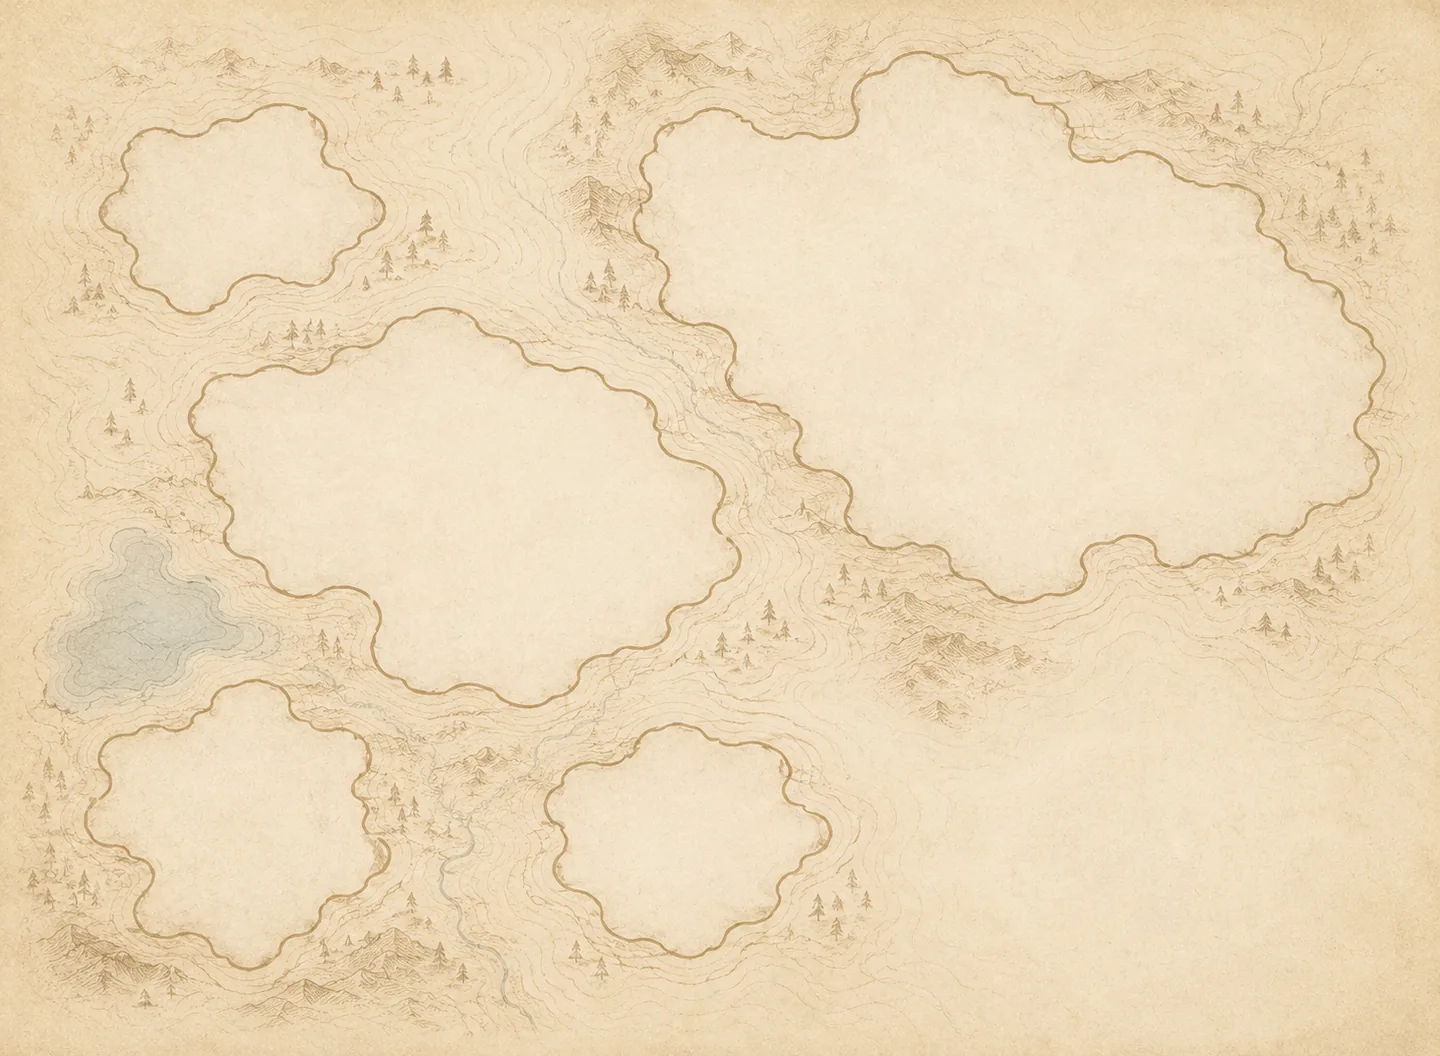
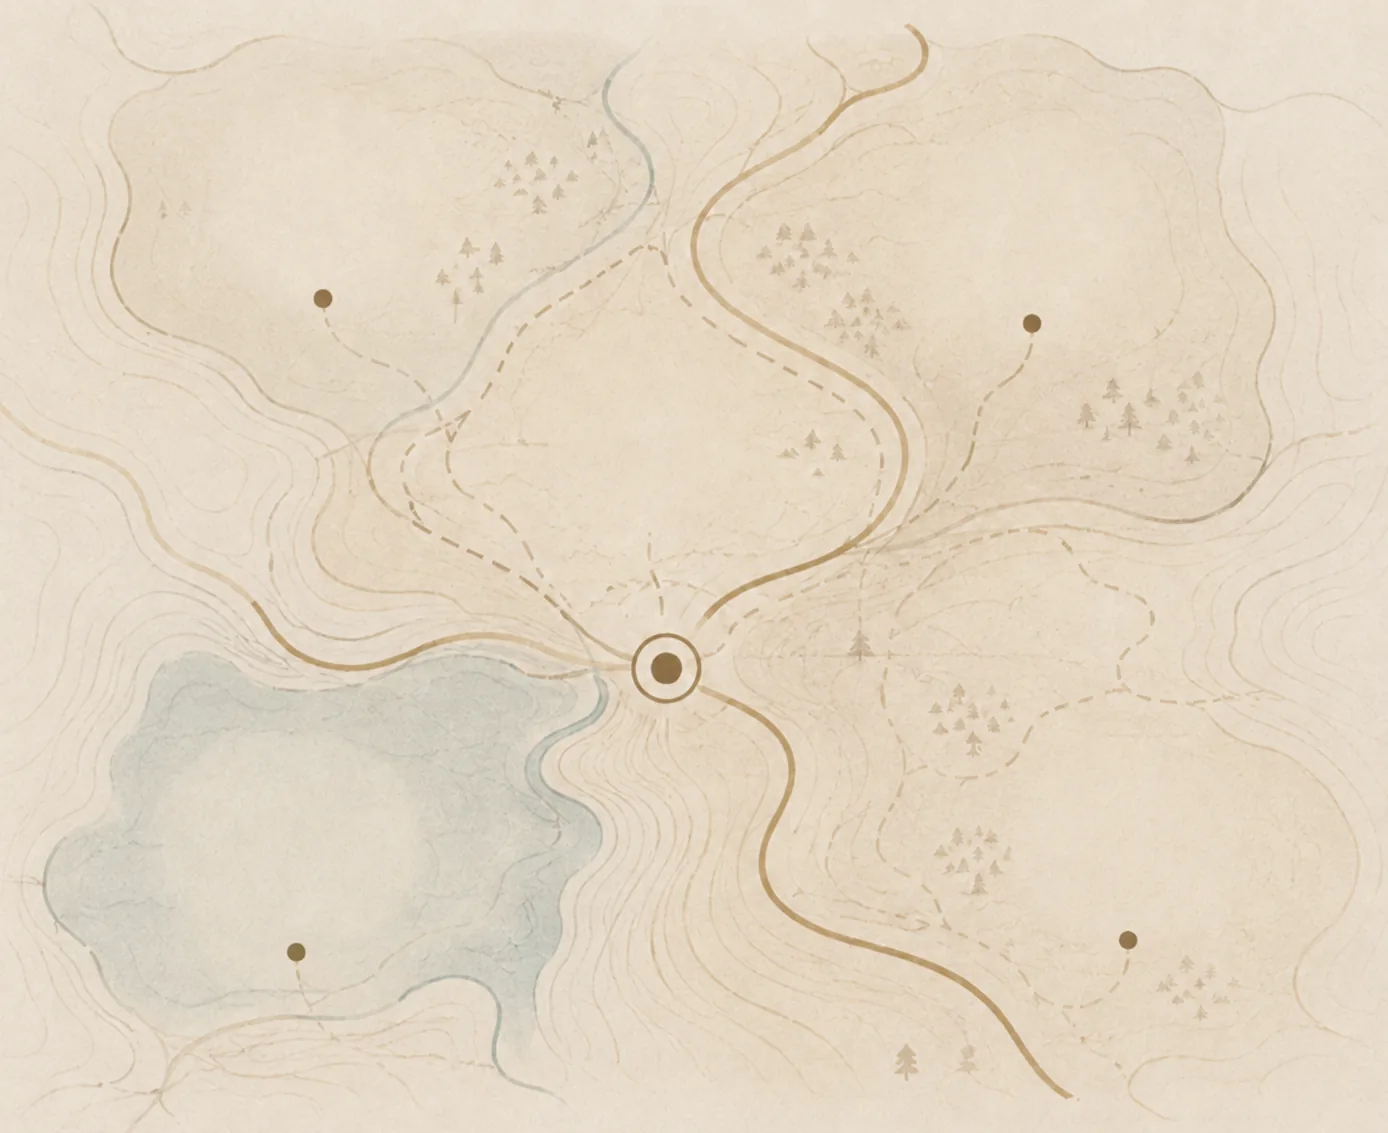
feat(self-portrait): re-art map + retarget label anchors to new territories (#447)
Swap the map portrait base art and re-tune the overlay to it (PR-UI-2).

- Asset: convert new map-territories.png (1388x1133, 1.9MB) -> WebP q82
  (1388x1133, 63KB) per C-02. Both call sites already resolve the .webp
  filename, so no path change (PortraitMap.tsx, portraitShareCard.ts).
- viewBox 360x264 -> 360x294 to match the new art's 1.225 aspect
  (cover-crop ~0.05%, no territory cut sideways).
- Re-place all 5 rank SLOTS onto the new art's baked-in anchor markers,
  centroids detected programmatically from the asset (not hand-guessed):
  rank-1 -> central bullseye (X-mark), rank-2 -> top-right, rank-3 ->
  top-left, rank-4 -> bottom-right, rank-5 -> lake (bottom-left).
- Remove the rose.webp overlay + dynamic needle entirely: the new art has
  its own baked central compass; two compasses = visual noise. rose.webp
  stays (still used by the radar) — no asset deletion.
- Typography/halo/caption system unchanged. Share card reads the viewBox
  dynamically and strips the (now-absent) rose, so it tracks automatically;
  only stale map-aspect comments updated.

diff --git a/apps/web/components/self-portrait/PortraitMap.tsx b/apps/web/components/self-portrait/PortraitMap.tsx
@@ -1,60 +1,51 @@
 // ─────────────────────────────────────────────────────────────────────────────
-// Self-Portrait map (v4 — static hand-drawn territories). A SECOND view of the SAME
-// theme_scores the radar uses. The base is now a HAND-DRAWN parchment map asset with 5
-// fixed blank territories (1 large, 1 medium, 3 small). We rank the 8 themes by score and
-// print the NAME + caption of each top-5 theme onto the territory matching its RANK
-// (rank-1 → largest … rank-5 → the last small one). Ranks 6-8 do not appear.
+// Self-Portrait map (v5 — hand-drawn territories, re-art). A SECOND view of the SAME
+// theme_scores the radar uses. The base is a HAND-DRAWN parchment map asset with 5 baked-in
+// anchor markers — a central compass bullseye plus four location dots (top-left, top-right,
+// bottom-right, and one over the lake, bottom-left). We rank the 8 themes by score and print
+// the NAME + caption of each top-5 theme onto the anchor matching its RANK (rank-1 → the
+// central bullseye … rank-5 → the lake). Ranks 6-8 do not appear.
 //
 // This preserves "stable world" by RANK: a theme's slot is its CURRENT rank, so when the
-// ranking shifts the names move between the fixed territories — recognisable over time and
+// ranking shifts the names move between the fixed anchors — recognisable over time and
 // trivial to diff then-vs-now. No procedural shapes; the map art IS the territory.
 //
-// • BASE: map-territories.webp at full opacity (it IS the map — no dimming; no baked
-//   compass to fight). A FULL background sibling OUTSIDE the <svg> (like the radar's
-//   frame/watermark), so it never enters the share-card canvas or taints it.
-// • SLOTS: 5 fixed viewBox anchors (founder-confirmed centres), ordered by rank. Each
-//   carries a wrap width (large/medium 18 ch/line; the three small corner slots 14 ch/line
-//   so a caption never runs off the frame). Empty slots (fewer than 5 scored themes)
-//   render nothing.
+// • BASE: map-territories.webp at full opacity (it IS the map). A FULL background sibling
+//   OUTSIDE the <svg> (like the radar's frame/watermark), so it never enters the share-card
+//   canvas or taints it. The art carries its OWN central compass, so we draw no rose overlay.
+// • SLOTS: 5 fixed viewBox anchors (detected centres of the map's markers), ordered by rank.
+//   Each carries a wrap width (centre + top-right 18 ch/line; the three corner slots
+//   14 ch/line so a caption never runs off the frame). Empty slots (fewer than 5 scored
+//   themes) render nothing.
 // • LABELS: stacked + centered on the slot anchor — name (Lora 13, ink, vellum halo;
-//   rank-1 weight 600) then the sub-caption below, WRAPPED to ≤3 lines (Lora 9.5, sepia,
-//   same halo) from selfPortraitMapCaptions.ts. The halo keeps small-slot captions legible
-//   where they overrun the blank onto the faint contour lines.
-// • NO connector paths between territories — we have NO theme-to-theme relationship data,
-//   and no UI copy anywhere may imply one.
-// • Compass rose + needle: the rose.webp overlay + needle stay in the data-share-omit group
-//   (the share pipeline strips it — the <image> can't resolve there, avoiding an orphaned
-//   needle). The needle points at SLOT_LARGE — the rank-1 (dominant) territory.
+//   rank-1 weight 600) then the sub-caption below, WRAPPED to ≤3 lines (Lora 11, sepia,
+//   same halo) from selfPortraitMapCaptions.ts. The halo keeps corner-slot captions legible
+//   where they overrun onto the faint contour lines.
+// • X-MARKS-THE-SPOT: a discreet cross above the rank-1 (dominant) name, on the central
+//   bullseye. NO connector paths between territories — we have NO theme-to-theme relationship
+//   data, and no UI copy anywhere may imply one.
 // • Empty / all-zero → the same calm "keep answering" line, never a degenerate blob.
 // ─────────────────────────────────────────────────────────────────────────────
 import Image from 'next/image'
 import type { SelfPortraitThemeScore } from '@/lib/api'
 import { MAP_CAPTIONS } from '@/lib/selfPortraitMapCaptions'
 
-// Same-origin hand-drawn territory map (v4 asset). Full-bleed background, full opacity.
+// Same-origin hand-drawn territory map (v5 re-art asset). Full-bleed background, full opacity.
 const MAP_SRC = '/self-portrait/map-territories.webp'
 
-// ── FIXED territory slots (viewBox 360×264), in RANK order ─────────────────────
-// Founder-confirmed centres of the 5 blank territories in the map art. rank-1 → LARGE,
-// rank-2 → MEDIUM, rank-3/4/5 → the three small ones (top-left, bottom-left, bottom-
-// center). `maxChars` is the per-slot caption wrap width: the three small CORNER slots use
-// a tighter width so a wide caption never runs off the viewBox edge.
+// ── FIXED territory slots (viewBox 360×294), in RANK order ─────────────────────
+// Detected centres of the 5 baked-in anchor markers on the map art (frac→viewBox from the
+// 1388×1133 asset). rank-1 → the CENTRAL bullseye (also gets the X-mark), rank-2 → top-right
+// territory, rank-3 → top-left, rank-4 → bottom-right, rank-5 → the lake (bottom-left).
+// `maxChars` is the per-slot caption wrap width: the three corner slots use a tighter width
+// so a wide caption never runs off the viewBox edge.
 const SLOTS: Array<{ x: number; y: number; maxChars: number }> = [
-  { x: 252.0, y: 79.2, maxChars: 18 }, // LARGE  — rank 1 (top-right)
-  { x: 118.8, y: 134.6, maxChars: 18 }, // MEDIUM — rank 2 (center)
-  { x: 57.6, y: 55.4, maxChars: 14 }, // SMALL  — rank 3 (top-left corner)
-  { x: 52.2, y: 211.2, maxChars: 14 }, // SMALL  — rank 4 (bottom-left corner)
-  { x: 171.0, y: 212.5, maxChars: 14 }, // SMALL  — rank 5 (bottom-center)
+  { x: 172.7, y: 173.3, maxChars: 18 }, // CENTRE    — rank 1 (bullseye)
+  { x: 267.7, y: 83.8, maxChars: 18 }, // TOP-RIGHT — rank 2
+  { x: 83.8, y: 77.3, maxChars: 14 }, // TOP-LEFT  — rank 3
+  { x: 292.6, y: 243.9, maxChars: 14 }, // BOT-RIGHT — rank 4
+  { x: 76.8, y: 247.0, maxChars: 14 }, // LAKE (BL) — rank 5
 ]
-
-// Decorative compass rose overlay (same-origin asset shared with the radar) + a dynamic
-// needle, lower-right. The rose+needle group is tagged data-share-omit so the share
-// pipeline strips it (the <image> can't resolve there — avoids an orphaned needle).
-const ROSE_SRC = '/self-portrait/rose.webp'
-const ROSE_CX = 310.7 // 86.3% of the 360-wide viewBox
-const ROSE_CY = 214.9 // 81.4% of the 264-tall viewBox
-const ROSE_W = 44 // decorative scale (half-width 22)
-const NEEDLE_LEN = 22 // reaches the rose's outer edge
 
 // Wrap a caption to at most `maxLines` lines of ≤`maxChars` chars (greedy word-wrap) so it
 // stays inside its slot and the viewBox. Deterministic — no layout measurement, so it
@@ -106,25 +97,6 @@ export function PortraitMap({
     isDominant: i === 0,
   }))
 
-  // Compass needle → SLOT_LARGE (the rank-1 / dominant territory). Decorative, so it only
-  // shows when there's signal (a rank-1 exists). Same atan2 + triangle-tip math as before,
-  // just a fixed target coordinate. Kept in the data-share-omit group.
-  let needle: { bx: number; by: number; tip: string } | null = null
-  if (hasSignal && assigned.length > 0) {
-    const target = SLOTS[0]
-    const theta = Math.atan2(target.y - ROSE_CY, target.x - ROSE_CX)
-    const baseLen = NEEDLE_LEN - 6 // line stops short; a triangle forms the tip
-    const bx = ROSE_CX + baseLen * Math.cos(theta)
-    const by = ROSE_CY + baseLen * Math.sin(theta)
-    const tipX = ROSE_CX + NEEDLE_LEN * Math.cos(theta)
-    const tipY = ROSE_CY + NEEDLE_LEN * Math.sin(theta)
-    const perp = theta + Math.PI / 2
-    const hw = 3 // tip half-width
-    const pt = (x: number, y: number) => `${x.toFixed(1)},${y.toFixed(1)}`
-    const tip = `${pt(tipX, tipY)} ${pt(bx + hw * Math.cos(perp), by + hw * Math.sin(perp))} ${pt(bx - hw * Math.cos(perp), by - hw * Math.sin(perp))}`
-    needle = { bx, by, tip }
-  }
-
   return (
     <div className="relative w-full">
       {/* MAP container — hand-drawn territory art + watermark + the shareable <svg>. */}
@@ -146,7 +118,7 @@ export function PortraitMap({
           </div>
         )}
 
-        <svg viewBox="0 0 360 264" className="relative w-full block" role="img" aria-label="Your theme map">
+        <svg viewBox="0 0 360 294" className="relative w-full block" role="img" aria-label="Your theme map">
           {hasSignal && assigned.length > 0 && (
             <>
               {/* Rank-assigned labels — name (dominant=ink #1F1B14, others=bronze-dark
@@ -218,34 +190,6 @@ export function PortraitMap({
                   </g>
                 )
               })}
-
-              {/* Decorative compass rose + needle → SLOT_LARGE (rank-1). data-share-omit →
-                  the share pipeline removes the whole group (rose <image> + needle) so the
-                  shared map card shows neither, never an orphaned needle. */}
-              {needle && (
-                <g data-share-omit aria-hidden="true">
-                  <image
-                    href={ROSE_SRC}
-                    x={ROSE_CX - ROSE_W / 2}
-                    y={ROSE_CY - ROSE_W / 2}
-                    width={ROSE_W}
-                    height={ROSE_W}
-                    opacity={0.9}
-                    preserveAspectRatio="xMidYMid meet"
-                  />
-                  <line
-                    x1={ROSE_CX}
-                    y1={ROSE_CY}
-                    x2={needle.bx}
-                    y2={needle.by}
-                    stroke="#8A7340"
-                    strokeWidth={1.2}
-                    strokeLinecap="round"
-                  />
-                  <polygon points={needle.tip} fill="#8A7340" />
-                  <circle cx={ROSE_CX} cy={ROSE_CY} r={1.6} fill="#8A7340" />
-                </g>
-              )}
             </>
           )}
         </svg>

diff --git a/apps/web/lib/portraitShareCard.ts b/apps/web/lib/portraitShareCard.ts
@@ -50,7 +50,7 @@ const RENDER_SCALE = 3 // rasterize the SVG at 3× for crisp text, drawn down
 
 // Viz AREA on the card (C2 recomposition — larger than the previous 90/150/900/600). The
 // active viz is fit into this box preserving aspect (so the radar's 420:272 and the map's
-// 360:264 are each undistorted). The title sits above (y≈108–172); the summary line + QR +
+// 360:294 are each undistorted). The title sits above (y≈108–172); the summary line + QR +
 // date sit below. Old box 900×600 → new 950×615 (radar +11% area, map wider & taller).
 const VIZ_X = 65
 const VIZ_Y = 205
@@ -258,7 +258,7 @@ export async function renderPortraitCardBlob(
 
   // 3b. Map base art (map only) — same-origin parchment territories, drawn straight into
   //     the dest rect UNDER the label svg. On screen it's an <img> sibling outside the svg
-  //     (so it's stripped from the clone); the container shares the svg's 360×264 aspect, so
+  //     (so it's stripped from the clone); the container shares the svg's 360×294 aspect, so
   //     a plain fill of dest is correct. Radar path is unaffected (mapImg is null there).
   if (mapImg) {
     ctx.drawImage(mapImg, dest.x, dest.y, dest.w, dest.h)
